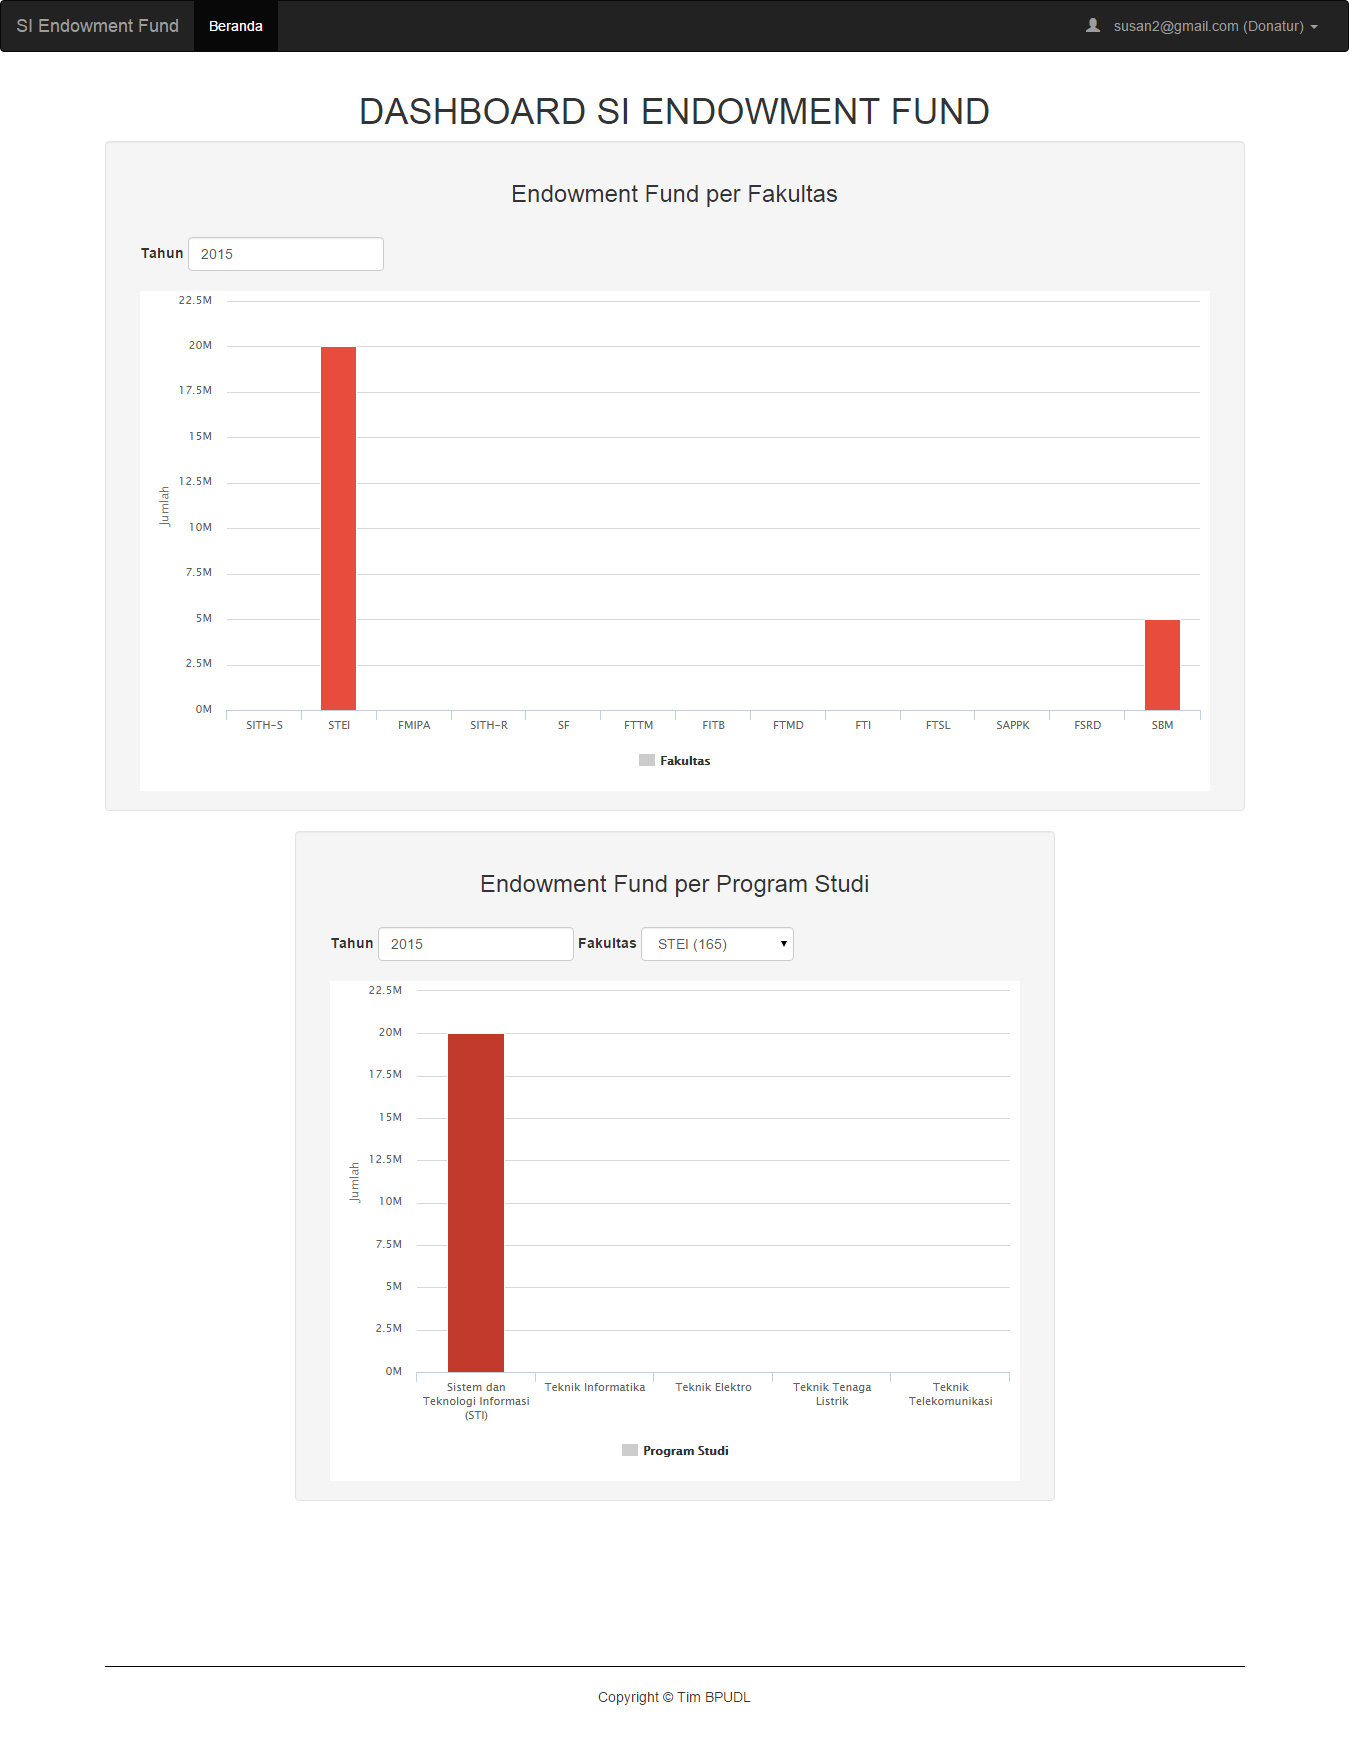
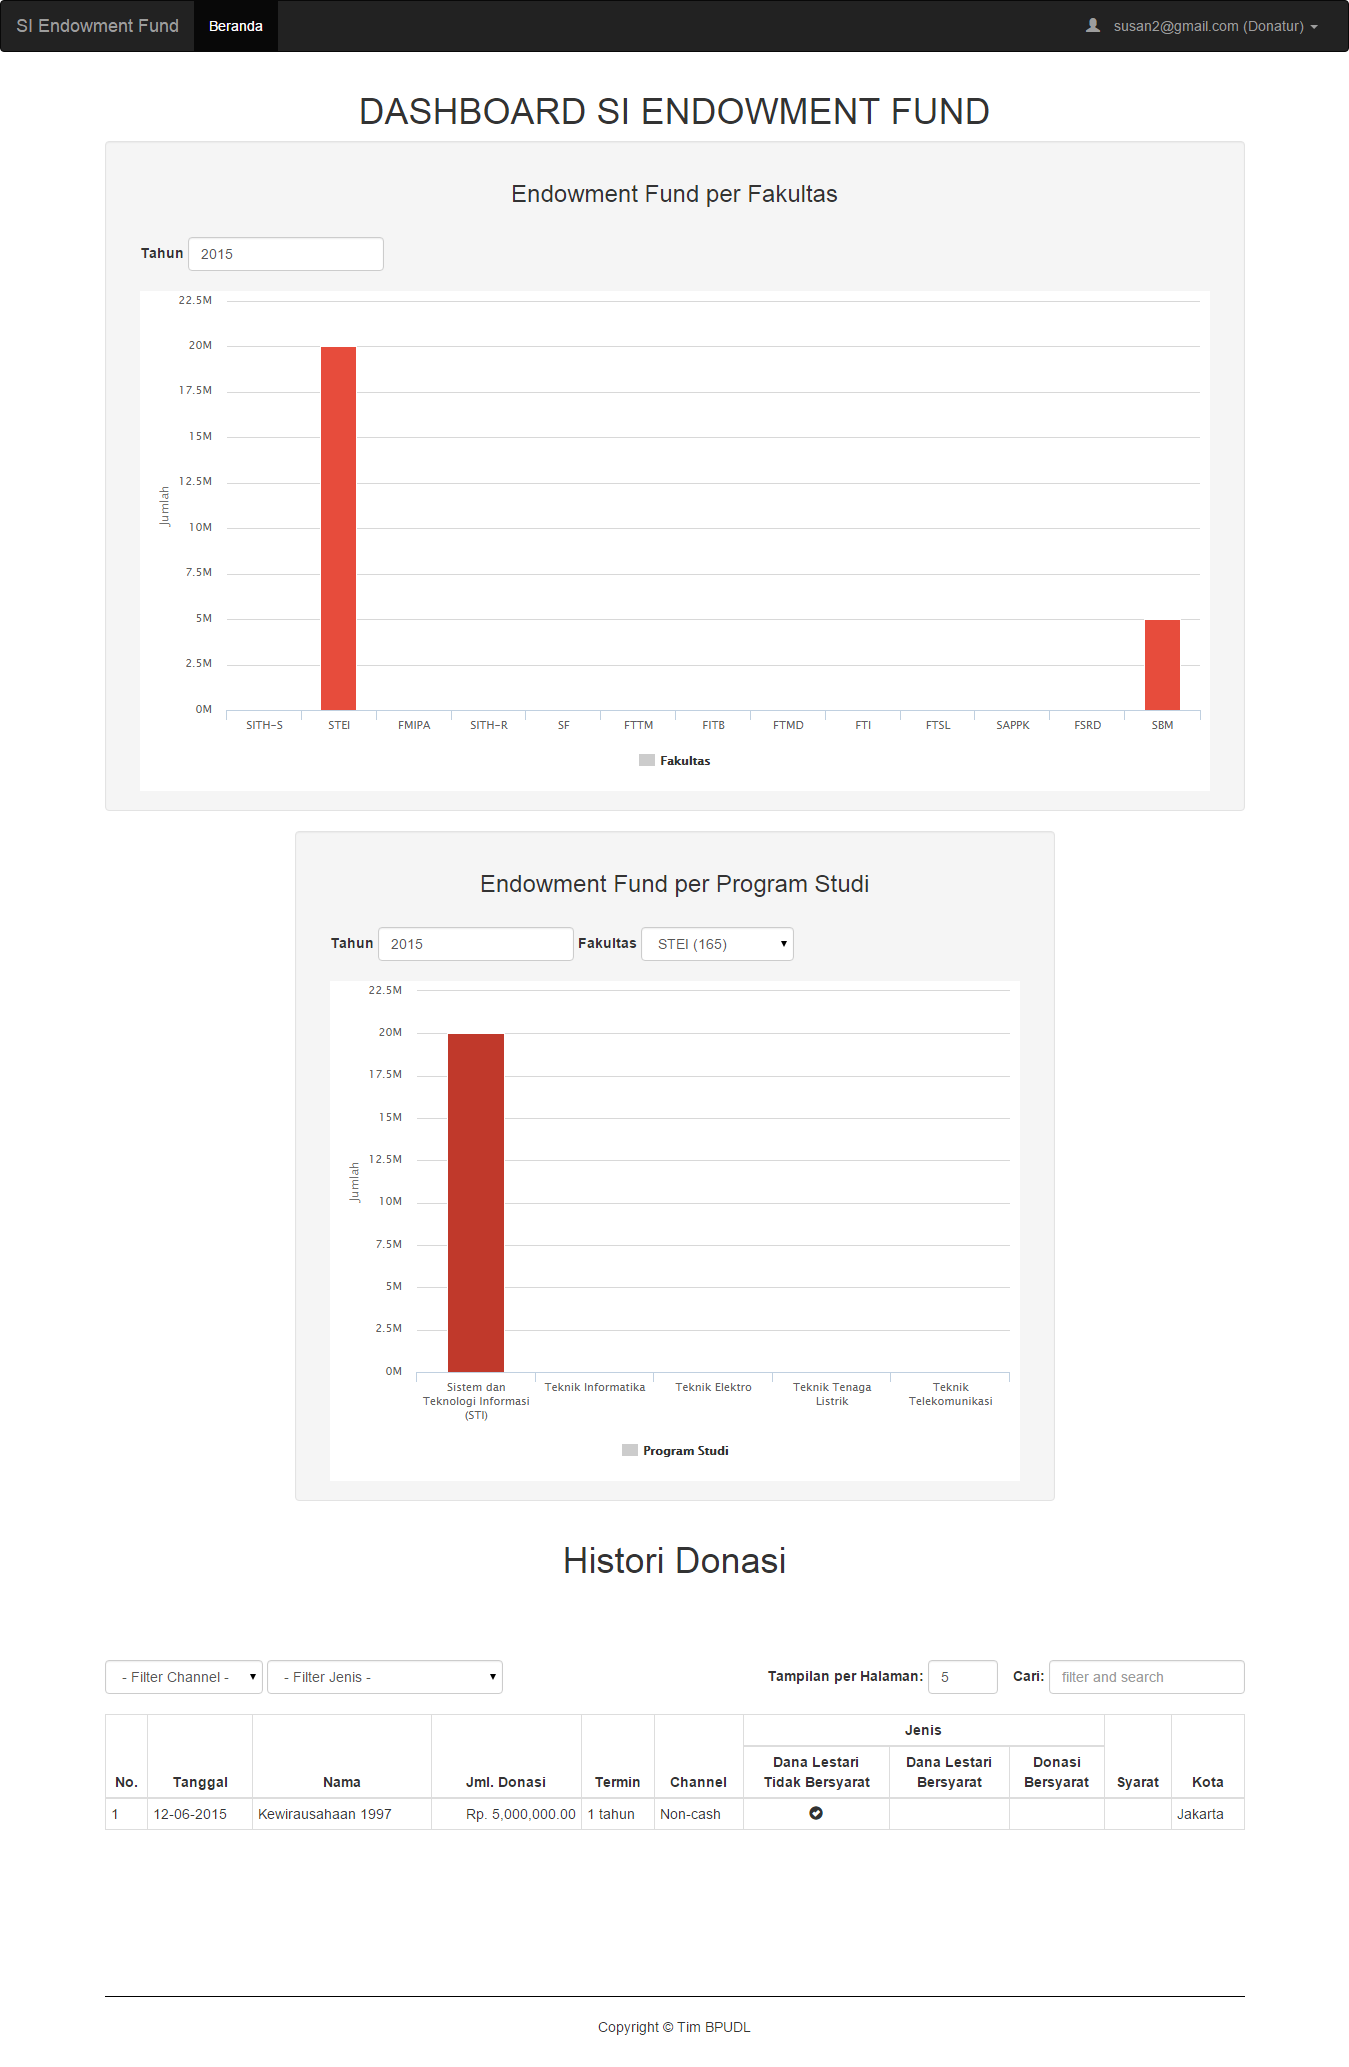
histori donasi

diff --git a/public/pages/beranda.html b/public/pages/beranda.html
@@ -144,3 +144,94 @@
 		</div>
 	</div>
 </div>
+
+<div class="row" ng-show="user_aktif.role == 'Donatur'">
+	<div class="col-md-12">
+
+		<h1 class="text-center" style="margin-bottom: 40px">Histori Donasi</h1>
+		
+		<br><br> <!-- KARAKTER ENTER -->
+
+		<!-- BAR UNTUK PENCARIAN, TAMBAH DATA, FILTER -->
+		<div class="row">
+			<div class="col-md-12">
+				<form class="form-inline">
+					<div class="form-group">
+						<select class="form-control" ng-model="fil_channel">
+							<option value="">- Filter Channel -</option>
+							<option value="Cash">Cash</option>
+							<option value="Non-cash">Non-cash</option>
+							<option value="Cek">Cek</option>
+						</select>
+					</div>
+
+					<div class="form-group">
+						<select class="form-control" ng-model="fil_jenis">
+							<option value="">- Filter Jenis -</option>
+							<option value="Dana Lestari Tidak Bersyarat">Dana Lestari Tidak Bersyarat</option>
+							<option value="Dana Lestari Bersyarat">Dana Lestari Bersyarat</option>
+							<option value="Donasi Bersyarat">Donasi Bersyarat</option>
+						</select>
+					</div>
+					
+					<div class="form-group pull-right">
+						<label>Cari: </label>
+						<input type="text" class="form-control" placeholder="filter and search" ng-model="q">
+					</div>
+
+					<div class="form-group pull-right" style="margin-right: 15px">
+						<label>Tampilan per Halaman: </label>
+						<input type="number" class="form-control" ng-model="pageSize" style="width: 70px">
+					</div>
+
+				</form>
+			</div>
+		</div>
+
+		<circle-spinner ng-show="is_loading"></circle-spinner>
+
+		<table ng-show="!is_loading" id="tabel_donasi" class="table table-bordered table-condensed table-hover" style="margin-top: 20px">
+			<thead>
+				<tr>
+					<th class="text-center" rowspan="2">No.</th>
+					<th class="text-center" rowspan="2">Tanggal</th>
+					<th class="text-center" rowspan="2">Nama</th>
+					<th class="text-center" rowspan="2">Jml. Donasi</th>
+					<th class="text-center" rowspan="2">Termin</th>
+					<th class="text-center" rowspan="2">Channel</th>
+					<th colspan="3" class="text-center">Jenis</th>
+					<th class="text-center" rowspan="2">Syarat</th>
+					<th class="text-center" rowspan="2">Kota</th>
+				</tr>
+				<tr>
+					<th class="text-center">Dana Lestari<br>Tidak Bersyarat</th>
+					<th class="text-center">Dana Lestari<br>Bersyarat</th>
+					<th class="text-center">Donasi<br>Bersyarat</th>
+				</tr>
+			</thead>
+
+			<tbody>
+				<tr dir-paginate="donasi in filtered_donasi | filter:q | itemsPerPage: pageSize | channel: fil_channel | jenis: fil_jenis" current-page="page_now">
+					<td>{{($index+1)+(pageSize*(page_now-1))}}</td>
+					<td>{{donasi.tanggal | date:'dd-MM-yyyy'}}</td>
+					<td>{{donasi.nama_donatur}}</td>
+					<td class="text-right">{{donasi.nominal | currency:"Rp. "}}</td>
+					<td>{{donasi.termin}}</td>
+					<td>{{donasi.channel}}</td>
+					<td class="text-center"><i class="{{(donasi.jenis=='Dana Lestari Tidak Bersyarat')?'glyphicon glyphicon-ok-sign':''}}"></i></td>
+					<td class="text-center"><i class="{{(donasi.jenis=='Dana Lestari Bersyarat')?'glyphicon glyphicon-ok-sign':''}}"></i></td>
+					<td class="text-center"><i class="{{(donasi.jenis=='Donasi Bersyarat')?'glyphicon glyphicon-ok-sign':''}}"></i></td>
+					<td>{{donasi.syarat}}</td>
+					<td>{{donasi.kota}}</td>
+				</tr>
+			</tbody>
+		</table>
+
+		<div class="row">
+			<div class="text-center col-md-12">
+				<dir-pagination-controls boundary-links="true">
+				</dir-pagination-controls>
+			</div>
+		</div>
+	</div>
+</div>

diff --git a/public/js/siendo.js b/public/js/siendo.js
@@ -1519,16 +1519,27 @@ app.controller('DashboardCtrl', function($scope, DonasiSvc, DonaturSvc, $locatio
 		});
 	}
 
-	
 
+
+	$scope.is_loading = false;
+	$scope.pageSize = 5;
+	$scope.page_now = 1;
+	$scope.filtered_donasi = {};
+
+	$scope.fil_owner = function(){
+		$scope.filtered_donasi = $filter('filter')($scope.donasis, {id_donatur:$scope.user_aktif.id_pengguna});
+	}
 	$scope.get_tahuns = function(){
 		$scope.tahuns = [];
 		var newlist = $filter('orderBy')($scope.donasis, 'tanggal', false);
 	}
 	$scope.get_donasis = function(){
+		$scope.is_loading = true;
 		var req = DonasiSvc.all();
 		req.success(function(res){
 			$scope.donasis = res;
+			$scope.fil_owner();
+			$scope.is_loading = false;
 			$scope.set_tahun("ei", $scope.max_ei);
 			$scope.set_tahun("etbi", $scope.max_etbi);
 			$scope.set_tahun("ebi", $scope.max_ebi);
